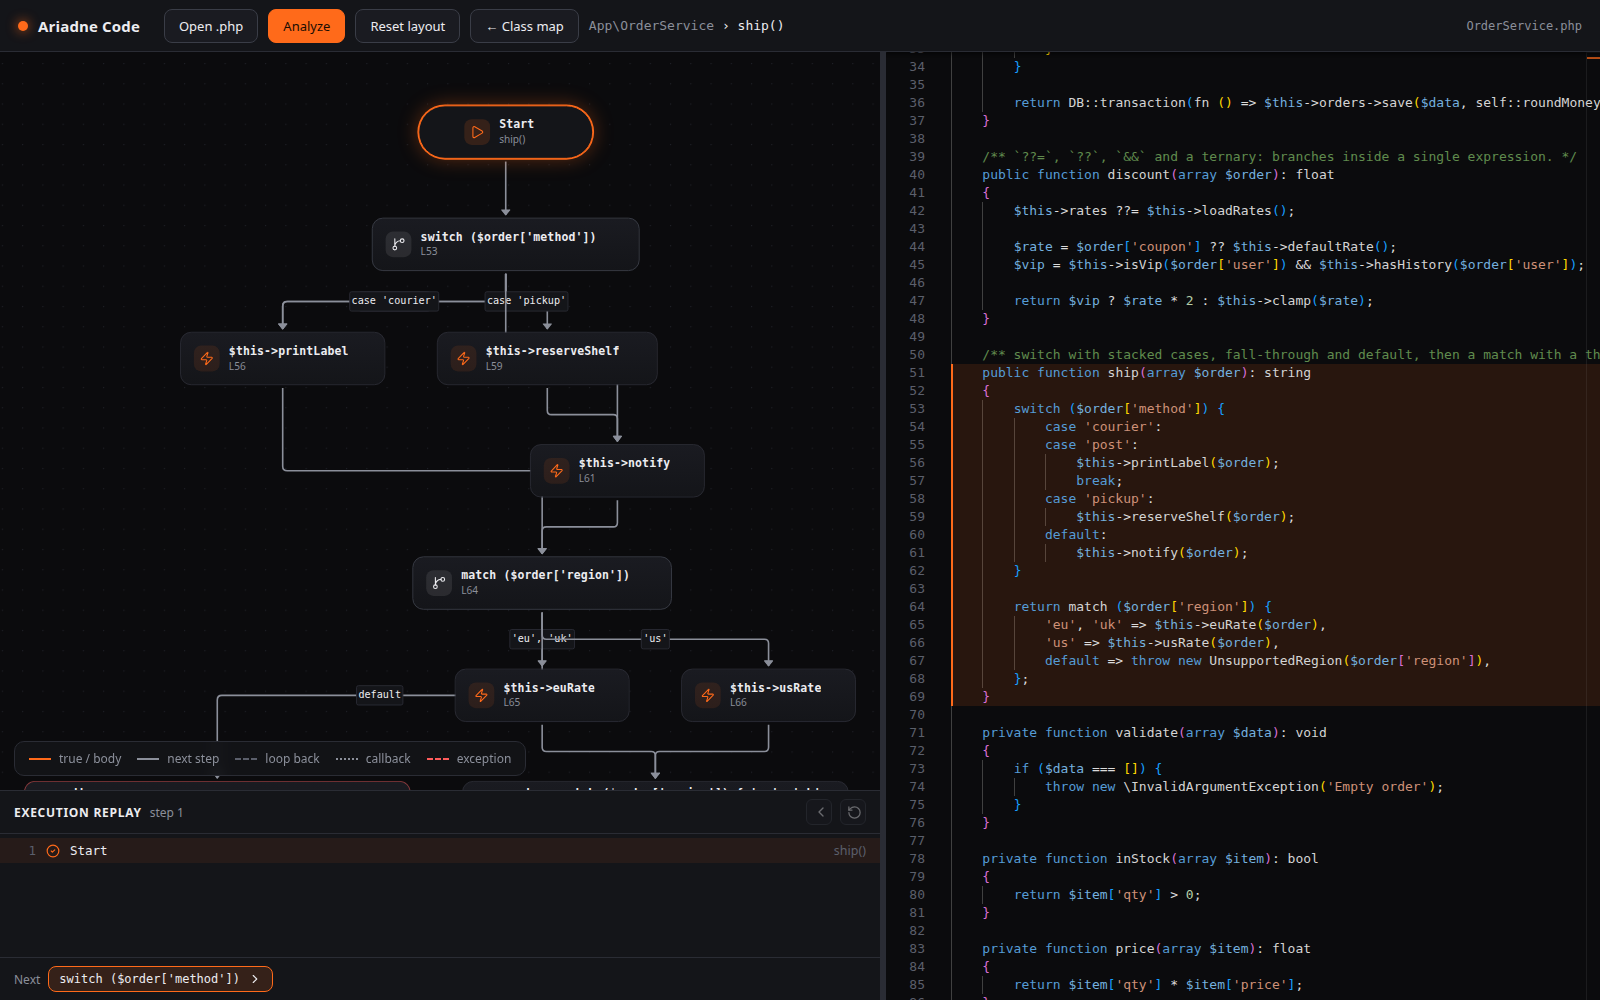
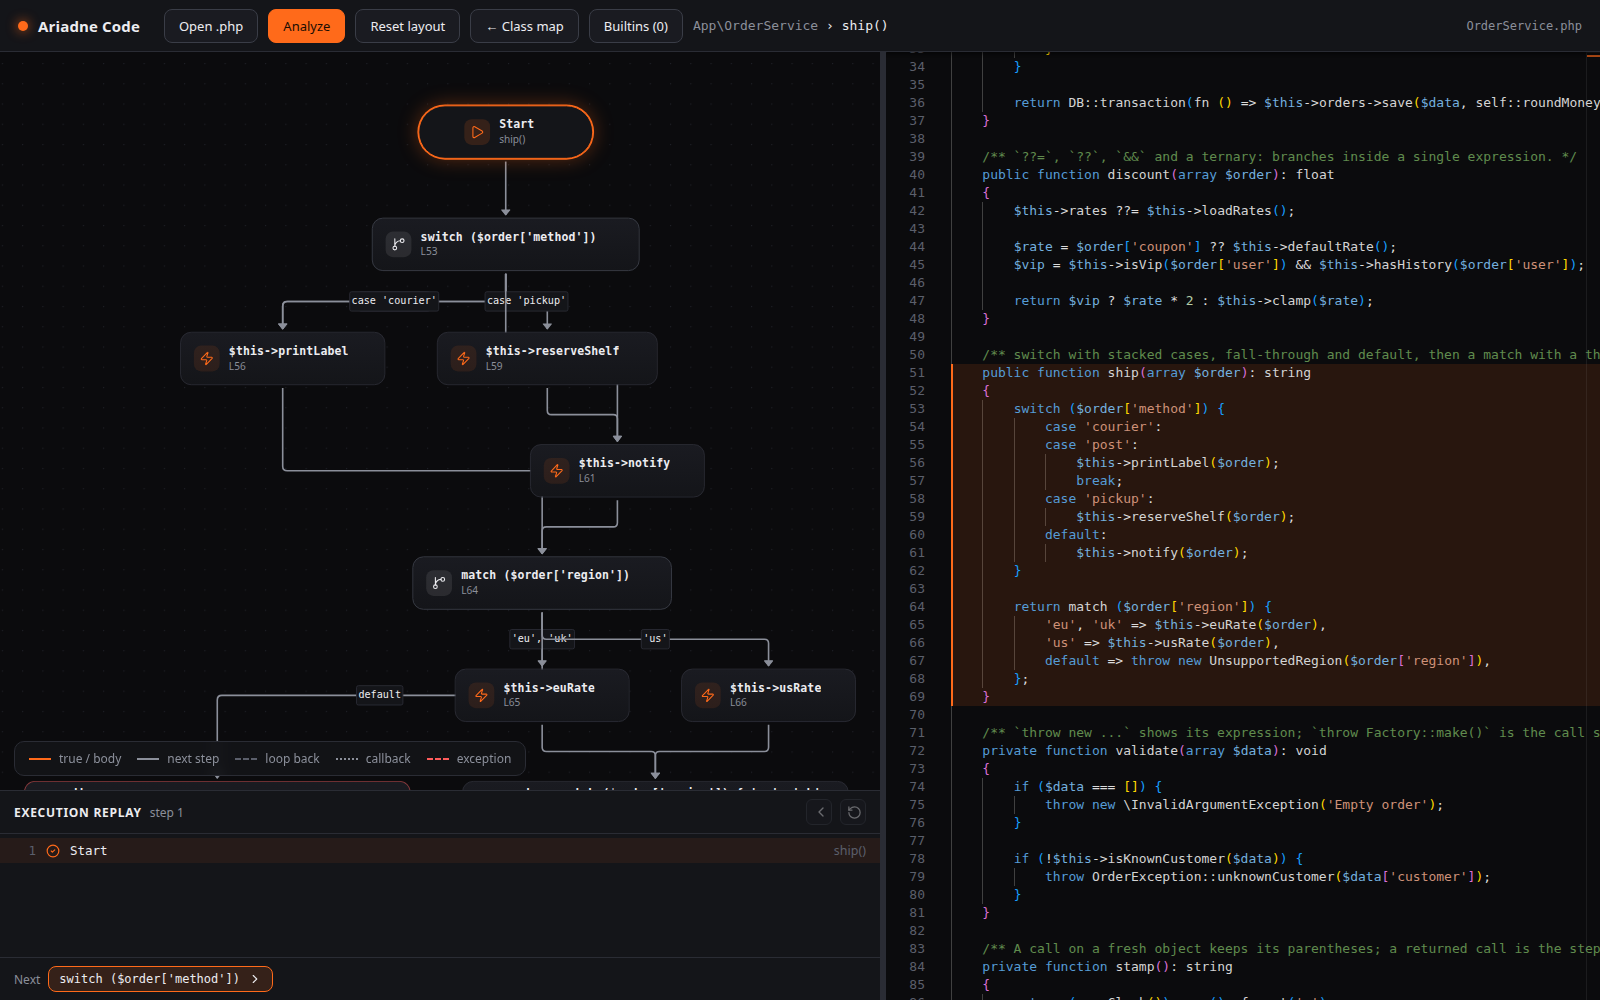
[docs] describe builtins, the grid and deep callbacks, add ADR 10, refresh screenshots

diff --git a/README.md b/README.md
@@ -30,7 +30,7 @@ make up    # UI on http://localhost:5180, API on http://localhost:8090
 
 The page shows the class map next to the source code. Click a node to jump to its code; move the cursor in the editor to highlight the matching node. Use **Open .php** to analyze your own file.
 
-Calls the analyzer cannot trace to a declaration (builtins, calls on other objects) are hidden on the map by default, because there are often more of them than real nodes; the **Unresolved (N)** button shows them. Classes are containers that hold their methods and can be resized; drag any block and the layout is remembered per file.
+Calls the analyzer cannot trace to a declaration (builtins, calls on other objects) are hidden on the map by default, because there are often more of them than real nodes; the **Unresolved (N)** button shows them. A class with more than 14 methods is laid out as a grid, four across, instead of a column that would have to be shrunk until nothing can be read. Classes are containers that hold their methods and can be resized; drag any block and the layout is remembered per file.
 
 **Method flow:** double-click a method (or select it and press **Show flow**) to see how it runs: its calls in execution order, `if` branches (`true`/`false`), loops, `try`/`catch`, `return` and `throw`. A flow can be shared by link, e.g. `http://localhost:5180/#method=method:App\\OrderService::createOrder`.
 
@@ -73,7 +73,7 @@ docker compose run --rm php php bin/ariadne analyze path/to/YourClass.php
 | `function`   | A function declared outside any class                                |
 | `script`     | The code of a file that sits outside every class and function: what runs when the file is executed |
 | `unresolved` | A call target that static analysis cannot map to a known declaration |
-| flow nodes   | `start`, `end`, `call`, `condition`, `loop`, `try`, `catch`, `finally`, `return`, `throw`: the control flow of one method, linked to it through `parent` |
+| flow nodes   | `start`, `end`, `call`, `builtin`, `condition`, `loop`, `try`, `catch`, `finally`, `return`, `throw`: the control flow of one method, linked to it through `parent` |
 
 | Edge type  | Meaning                                                                  |
 |------------|--------------------------------------------------------------------------|
@@ -106,7 +106,7 @@ Deliberate simplifications (the graph never claims more than it knows):
 - `do ... while` is drawn like `while`, with the condition node before the body.
 - Exceptions raised by called methods are unknown, so a `try` links to each of its `catch` blocks.
 - `finally` is reached on normal completion only (not after `return`/`break` inside `try`).
-- A closure or arrow function passed straight to a method or static call (`DB::transaction(fn () => ...)`) is a callback: its calls follow that call as plain steps, entered by a dotted `callback` edge. The analyzer cannot know whether the callee runs it, so the edge says "callback", not "runs". `return` and `throw` inside it never leave the method. Closures anywhere else add no steps.
+- A closure or arrow function passed straight to a method or static call (`DB::transaction(fn () => ...)`) is a callback: its calls follow that call as plain steps, entered by a dotted `callback` edge. The analyzer cannot know whether the callee runs it, so the edge says "callback", not "runs". `return` and `throw` inside it never leave the method. Closures anywhere else add no steps. Callbacks nest to any depth; inside one, branching constructs are plain steps and a `throw` stays inside it.
 - A `return` or `throw` whose expression is itself a call is a bare keyword: the call is already the step just before it, and repeating its text would show the same line twice. `throw new E()` and `return $x` keep their expression, so the exception type stays visible.
 - `exit`/`die` end the flow like `return`. `include`/`require` are a step, but the included file is not followed, and neither are calls into other files.
 - Code after an unconditional `return`/`throw`/`break`/`continue` is unreachable and left out.
@@ -116,6 +116,8 @@ Plain PHP scripts work too. A function is a node with its own flow, and the top-
 ![Flow of a legacy-style script](docs/screenshot-script.png)
 
 What currently resolves: `$this->method()`, `self::method()` and `static::method()` within the same class, and calls to functions declared in the same file (also namespaced, imported with `use function`, or falling back to the global one), case-insensitively. Everything else (calls on other objects, inherited methods, `parent::`, dynamic names such as `$this->$name()`) becomes an `unresolved` node, so the graph never asserts something the code does not prove.
+
+**Builtins.** Calls to common pure PHP functions (`count`, `trim`, `array_merge`, `is_array`, `preg_match`...) are `builtin` steps rather than `call` steps. The UI hides them by default and rejoins the steps around them; the **Builtins (N)** button in a method flow brings them back. `header()`, `mysqli_query()` or `file_put_contents()` are not on the list, so they stay visible. The list is fixed in the code ([`QuietFunctions`](src/Analyzer/QuietFunctions.php)), not read from the running PHP, so the same code gives the same graph on every machine.
 
 ## Development
 

diff --git a/docs/architecture.md b/docs/architecture.md
@@ -54,6 +54,10 @@ Legacy PHP is often procedural, so a graph of classes alone would be empty for t
 
 `tests/fixtures/OrderShowcase.php` is the class the UI opens with, a snapshot fixture, and the list of constructs the analyzer understands. One file serves all three because separate copies drift apart within a week. A feature that is not in it is not visible, so it is not finished, and a test fails when the showcase stops covering a kind of node or branch. See "Development" in the README.
 
+### ADR-10: Noise is marked by the analyzer and hidden by the UI
+
+A real 2,500-line service showed that a fifth of all calls were `is_array`, `array_merge` and similar helpers. They are facts about the code, so the analyzer keeps them, as `builtin` steps from a fixed list; whether to show them is a question for the reader, so the UI decides, and rejoins the steps around a hidden one so the path stays a path. The same split applies to unresolved calls on the class map. A list read from the running PHP would have been shorter to write and would have changed the graph between machines, which would have broken the snapshots.
+
 ### ADR-9: A flow node says what it adds, not what the source says
 
 Every call is a step, and `return`, `throw` and conditions are nodes of their own. When one expression is both (`return $this->save()`), the call is the step and the `return` is a bare keyword, because repeating the text shows the same line twice. An expression that is not a call (`throw new E()`, `return $x`) keeps its text, so the exception type and the value stay visible.
